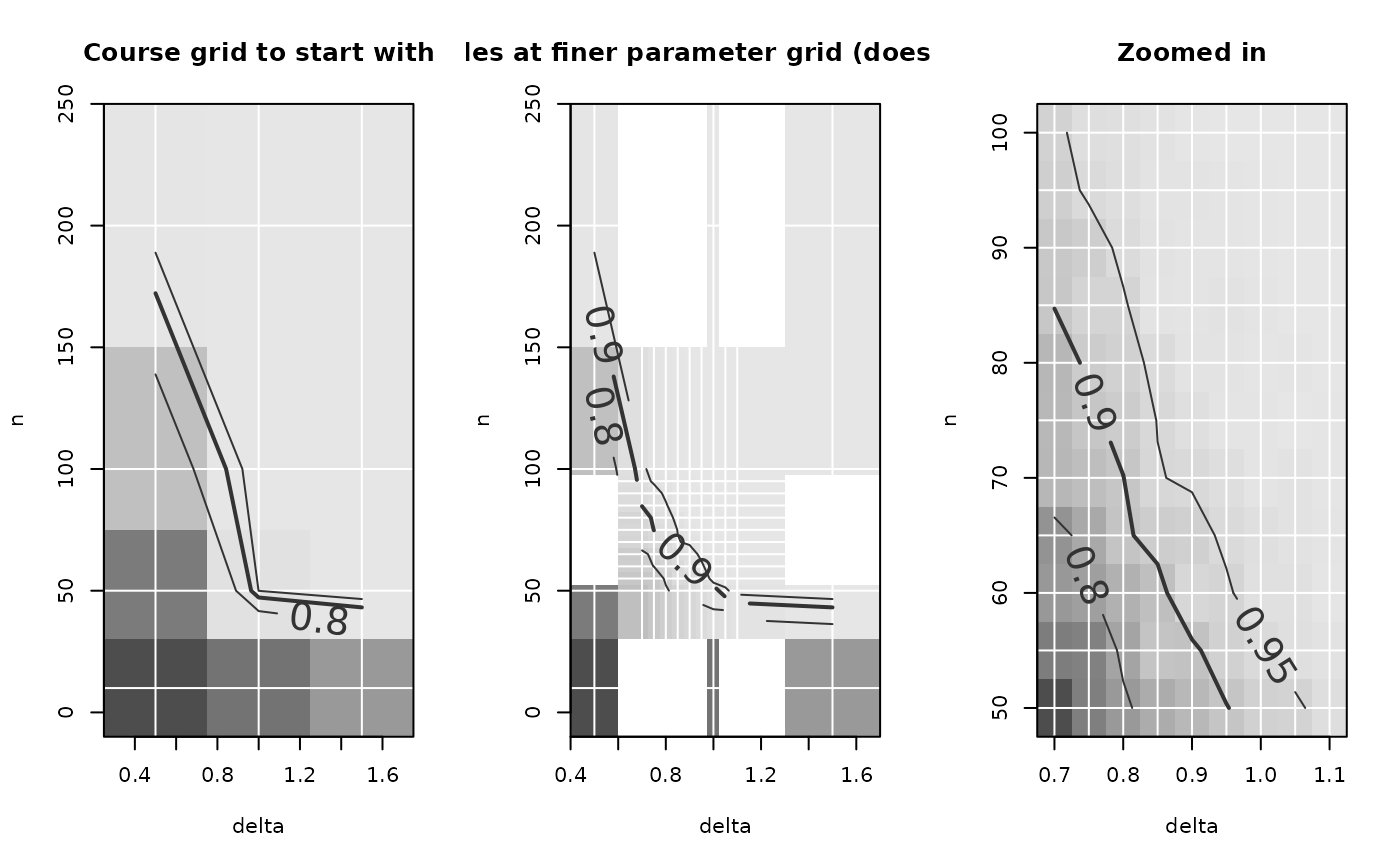
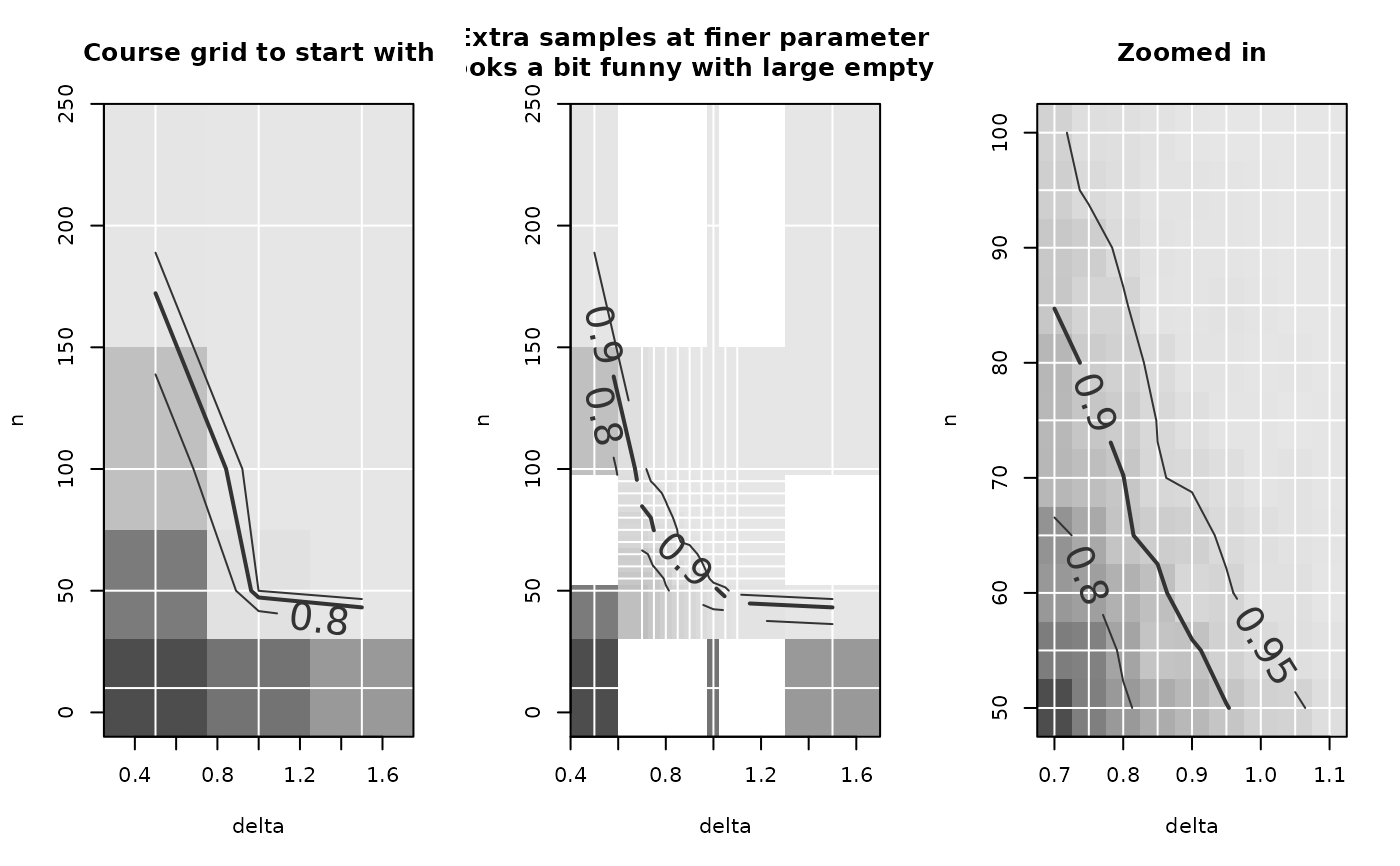
Deploying to gh-pages from @ gillesdutilh/powergrid@33b3f2732a4522dcdd5b598cbbedf673c98b71b1 🚀

Changed region(s): [[0.3379, 0.0312, 0.6757, 0.0935]]

diff --git a/reference/Refine.html b/reference/Refine.html
@@ -76,17 +76,23 @@ PowerGrid or by another call of Refine), adding further values in
     </div>
     <div class="section level2">
     <h2 id="details">Details<a class="anchor" aria-label="anchor" href="#details"></a></h2>
-    <p>If <code>pars == NULL</code>, update extends <code>old</code> by adding
-iterations <code>n_iter_add</code> to the existing power_array. If <code>pars</code>
-is given, the function that was evaluated in <code>old</code> (attribute
-<code>sim_function</code>) is evaluated at the crossings of <code>pars</code>. If
-argument <code>pars</code> is different from <code>attr(old, which = 'pars')</code>,
-this means that the function is evaluated additional crossings of
-parameters.</p>
-<p>Note that certain combinations of <code>pars</code> and <code>n_iter_add</code> result
-in arrays where some crossings of parameters include more iterations than
-others. This is a feature, not a bug. May result in less aesthetic
-plotting, however.</p>
+    <p>This function allows extending the number of iterations, as well as
+changing the parameter grid across which the function of interest is
+evaluated. Being able to do both at the same time is handy in cases where
+calculation takes significant time: You may first only evaluate a broad
+grid of parameters with a low number of iterations using PowerGrid. Then,
+using <code>Refine</code>, you can zoom in on a certain section of the parameter grid
+(and increase resolution in the focal range), and evaluate with a higher
+number of iterations.</p>
+<p>If <code>pars == NULL</code>, <code>Refine</code> extends <code>old</code> by adding iterations
+<code>n_iter_add</code> to the existing power_array (applying the original
+function <code>attr(old, which = 'sim_function'</code>).</p>
+<p>If <code>pars</code> is given and different from the original <code>pars</code>
+(<code>attr(old, which = 'pars')</code>), the function is evaluated at
+additional crossings of parameters. This means that the resulting array
+may have empty cells, or cells with different numbers of iterations. This
+is a feature, not a bug. It may result in less aesthetic plotting,
+however.</p>
 <p>For details about handling the random seed, see <code><a href="PowerGrid.html">PowerGrid</a></code>.</p>
     </div>
     <div class="section level2">
@@ -189,18 +195,19 @@ plotting, however.</p>
 <span class="r-out co"><span class="r-pr">#&gt;</span>       n 200</span>
 <span class="r-out co"><span class="r-pr">#&gt;</span>   delta 0.5, 0.7, 0.75, 0.8, 0.85, 0.9, 0.95, 1, 1.05,</span>
 <span class="r-out co"><span class="r-pr">#&gt;</span>   delta 1.1, 1.5</span>
-<span class="r-in"><span><span class="fu"><a href="PowerPlot.html">PowerPlot</a></span><span class="op">(</span><span class="va">power_array_up</span><span class="op">)</span> <span class="co"># that looks funny! It's because the default summary</span></span></span>
+<span class="r-in"><span><span class="fu"><a href="PowerPlot.html">PowerPlot</a></span><span class="op">(</span><span class="va">power_array_up</span><span class="op">)</span></span></span>
 <span class="r-wrn co"><span class="r-pr">#&gt;</span> <span class="warning">Warning: </span>The power array you supplied to contains individual iterations. To be used further these were automatically summarized across iterations using the provided summary function</span>
 <span class="r-plt img"><img src="Refine-2.png" alt="" width="700" height="433"></span>
-<span class="r-in"><span>                          <span class="co"># mean does not deal with the empty value in the</span></span></span>
-<span class="r-in"><span>                          <span class="co"># grid. Solution is in illustration below.</span></span></span>
+<span class="r-in"><span></span></span>
+<span class="r-in"><span><span class="co">## That looks funny! It's because the default summary mean does not deal</span></span></span>
+<span class="r-in"><span><span class="co">## with the empty value in the grid. Solution is in illustration below.</span></span></span>
 <span class="r-in"><span></span></span>
 <span class="r-in"><span><span class="co">## A visual illustration of this zooming in, in three figures</span></span></span>
 <span class="r-in"><span><span class="fu"><a href="https://rdrr.io/r/graphics/layout.html" class="external-link">layout</a></span><span class="op">(</span><span class="fu"><a href="https://rdrr.io/r/base/t.html" class="external-link">t</a></span><span class="op">(</span><span class="fl">1</span><span class="op">:</span><span class="fl">3</span><span class="op">)</span><span class="op">)</span></span></span>
 <span class="r-in"><span><span class="fu"><a href="PowerPlot.html">PowerPlot</a></span><span class="op">(</span><span class="va">power_array</span>, title <span class="op">=</span> <span class="st">'Course grid to start with'</span><span class="op">)</span></span></span>
 <span class="r-wrn co"><span class="r-pr">#&gt;</span> <span class="warning">Warning: </span>The power array you supplied to contains individual iterations. To be used further these were automatically summarized across iterations using the provided summary function</span>
 <span class="r-in"><span><span class="fu"><a href="PowerPlot.html">PowerPlot</a></span><span class="op">(</span><span class="va">power_array_up</span>, summary_function <span class="op">=</span> <span class="kw">function</span><span class="op">(</span><span class="va">x</span><span class="op">)</span><span class="fu"><a href="https://rdrr.io/r/base/mean.html" class="external-link">mean</a></span><span class="op">(</span><span class="va">x</span>, na.rm <span class="op">=</span> <span class="cn">TRUE</span><span class="op">)</span>,</span></span>
-<span class="r-in"><span>          title <span class="op">=</span> <span class="st">'Extra samples at finer parameter grid (does not look good)'</span><span class="op">)</span></span></span>
+<span class="r-in"><span>          title <span class="op">=</span> <span class="st">'Extra samples at finer parameter grid\n(looks a bit funny with large empty cells)'</span><span class="op">)</span></span></span>
 <span class="r-wrn co"><span class="r-pr">#&gt;</span> <span class="warning">Warning: </span>The power array you supplied to contains individual iterations. To be used further these were automatically summarized across iterations using the provided summary function</span>
 <span class="r-in"><span><span class="fu"><a href="PowerPlot.html">PowerPlot</a></span><span class="op">(</span><span class="va">power_array_up</span>,</span></span>
 <span class="r-in"><span>          slicer <span class="op">=</span> <span class="fu"><a href="https://rdrr.io/r/base/list.html" class="external-link">list</a></span><span class="op">(</span>n <span class="op">=</span> <span class="fu"><a href="https://rdrr.io/r/base/seq.html" class="external-link">seq</a></span><span class="op">(</span><span class="fl">50</span>, <span class="fl">100</span>, <span class="fl">5</span><span class="op">)</span>,</span></span>

diff --git a/reference/PowerPlot.html b/reference/PowerPlot.html
@@ -67,6 +67,7 @@ parameters deemed most likely.</p>
 <span>  shades_of_grey <span class="op">=</span> <span class="cn">TRUE</span>,</span>
 <span>  example_text <span class="op">=</span> <span class="cn">TRUE</span>,</span>
 <span>  title <span class="op">=</span> <span class="cn">NULL</span>,</span>
+<span>  axes <span class="op">=</span> <span class="cn">TRUE</span>,</span>
 <span>  labcex <span class="op">=</span> <span class="fl">1.2</span>,</span>
 <span>  par_labels <span class="op">=</span> <span class="cn">NULL</span>,</span>
 <span>  smooth <span class="op">=</span> <span class="cn">NA</span>,</span>
@@ -128,7 +129,7 @@ uncertainty).</p></dd>
 needed to achieve <code>target_value</code>. Either <code>step</code>: walking in
 steps along <code>par_to_search</code> or <code>lm</code>: Interpolating assuming a
 linear relation between <code>par_to_search</code> and <code>(qnorm(x) + qnorm(1
-  - 0.05)) ^ 2</code>. The setting <code>lm</code> is inspired on the implementation in
+- 0.05)) ^ 2</code>. The setting <code>lm</code> is inspired on the implementation in
 the <code>sse</code> package by Thomas Fabbro.</p></dd>
 
 
@@ -164,6 +165,10 @@ value be printed alongside the arrow(s)</p></dd>
 title.</p></dd>
 
 
+<dt id="arg-axes">axes<a class="anchor" aria-label="anchor" href="#arg-axes"></a></dt>
+<dd><p>Logical defining whether or not axes are drawn.</p></dd>
+
+
 <dt id="arg-labcex">labcex<a class="anchor" aria-label="anchor" href="#arg-labcex"></a></dt>
 <dd><p>Numeric value passed to `contour, specifying the size of the
 contour labels.</p></dd>
@@ -185,8 +190,8 @@ contour plot, thereby <em>biasing</em> the contour lines.</p></dd>
 
 <dt id="arg--">...<a class="anchor" aria-label="anchor" href="#arg--"></a></dt>
 <dd><p>Further arguments to <code><a href="https://rdrr.io/r/graphics/par.html" class="external-link">par</a></code>, <code><a href="https://rdrr.io/r/graphics/axis.html" class="external-link">axis</a></code> and
-<code><a href="https://rdrr.io/r/graphics/image.html" class="external-link">image</a></code>. A few exceptions (e.g. <code>y</code>) are ignored with a warning.
-<code>...</code> is also passed directly to <code><a href="AddExample.html">AddExample</a></code></p></dd>
+<code><a href="https://rdrr.io/r/graphics/image.html" class="external-link">image</a></code>. A few exceptions (e.g. <code>y</code>) are ignored with a
+warning.  <code>...</code> is also passed directly to <code><a href="AddExample.html">AddExample</a></code></p></dd>
 
 </dl></div>
     <div class="section level2">
@@ -237,12 +242,11 @@ to <code>FALSE</code>. See Example for more details about <code>find_lowest</cod
 <h4 id="graphical-parameters">Graphical parameters<a class="anchor" aria-label="anchor" href="#graphical-parameters"></a></h4>
 
 
-<p>The plot takes the <code><a href="https://rdrr.io/r/graphics/par.html" class="external-link">graphical parameters</a></code> from <code>par</code>. If graphical
-parameters are given as arguments to the function they will be passed to
-the calls generating axes, titles and plotting. Grid lines are not modified
-by graphical parameters to PowerPlot. <code>lty</code> is only passed to the plotted
-contours (e.g. to prevent dashed axes). For further customisation of the
-axes <code>xaxt</code> and <code>yaxt</code> can be set to "n", and axes can be added afterwards.</p>
+<p>Graphical parameters that are allowed as input to the functions
+<code><a href="https://rdrr.io/r/graphics/plot.default.html" class="external-link">graphics::plot</a></code>, <code><a href="https://rdrr.io/r/graphics/lines.html" class="external-link">graphics::lines</a></code>, <code><a href="https://rdrr.io/r/graphics/image.html" class="external-link">graphics::image</a></code> and
+<code><a href="https://rdrr.io/r/graphics/axis.html" class="external-link">graphics::axis</a></code>, including all parametes available in par() are passed on
+to these functions internally. Not passed through are "x", "y", "z",
+"type", "at", and parameters that are explict arguments to <code>PowerPlot</code>.</p>
 </div>
 
 

diff --git a/reference/GridPlot.html b/reference/GridPlot.html
@@ -61,6 +61,7 @@ parameters.</p>
 <span>  col <span class="op">=</span> <span class="cn">NULL</span>,</span>
 <span>  example_text <span class="op">=</span> <span class="cn">TRUE</span>,</span>
 <span>  title <span class="op">=</span> <span class="cn">NULL</span>,</span>
+<span>  axes <span class="op">=</span> <span class="cn">TRUE</span>,</span>
 <span>  par_labels <span class="op">=</span> <span class="cn">NULL</span>,</span>
 <span>  add_legend <span class="op">=</span> <span class="cn">TRUE</span>,</span>
 <span>  xlim <span class="op">=</span> <span class="cn">NULL</span>,</span>
@@ -150,7 +151,11 @@ value, and the line parameter value be printed alongside the arrow(s).</p></dd>
 
 <dt id="arg-title">title<a class="anchor" aria-label="anchor" href="#arg-title"></a></dt>
 <dd><p>Character string, if not <code>NULL</code>, replaces default figure
-title. Replaces <code>main</code>if sepcifiec by <code>...</code>.</p></dd>
+title. Replaces <code>main</code>if specifiec by <code>...</code> .</p></dd>
+
+
+<dt id="arg-axes">axes<a class="anchor" aria-label="anchor" href="#arg-axes"></a></dt>
+<dd><p>Logical defining whether or not axes are drawn.</p></dd>
 
 
 <dt id="arg-par-labels">par_labels<a class="anchor" aria-label="anchor" href="#arg-par-labels"></a></dt>
@@ -199,7 +204,17 @@ the margin. This is often correct behavior, when the <code>target_value</code>
 level is not reached anywhere in that corner of the parameter range. In case
 n is on the y-axis, this may easily be solved by adding larger sample sizes
 to the grid (consider <code>Update</code>), and then adjusting the y-limit to only
-include the values of interest.</p>
+include the values of interest.</p><div class="section">
+<h3 id="graphical-parameters">Graphical parameters<a class="anchor" aria-label="anchor" href="#graphical-parameters"></a></h3>
+
+
+<p>Graphical parameters that are allowed as input to the functions
+<code><a href="https://rdrr.io/r/graphics/plot.default.html" class="external-link">graphics::plot</a></code>, <code><a href="https://rdrr.io/r/graphics/lines.html" class="external-link">graphics::lines</a></code>, <code><a href="https://rdrr.io/r/graphics/image.html" class="external-link">graphics::image</a></code> and <code><a href="https://rdrr.io/r/graphics/axis.html" class="external-link">graphics::axis</a></code>,
+including all parametes available in par() are passed on to these functions
+internally. Not passed through are "x", "y", "z", "type", "at", and
+parameters that are explict arguments to <code>GridPlot</code>.</p>
+</div>
+
     </div>
     <div class="section level2">
     <h2 id="see-also">See also<a class="anchor" aria-label="anchor" href="#see-also"></a></h2>

diff --git a/reference/PowerGrid.html b/reference/PowerGrid.html
@@ -207,11 +207,12 @@ attr(&lt;your_power_array&gt;, which = 'random.seed')[[2]]</code>, etc.</p>
 <h3 id="progress-bar">Progress bar<a class="anchor" aria-label="anchor" href="#progress-bar"></a></h3>
 
 
-<p>By default PowerGrid does not report progress. To return the optional progress bar (<code>progress_bar = TRUE</code>), the
-<code>progressr</code> package must be installed. As required by the design of that
-package, the progress handler must be explicitly activated before running
-your simulation. For that, run <code>progressr::handlers(global = TRUE)</code> in the
-current R console (not sent to the console from quarto for example).</p>
+<p>By default PowerGrid does not report progress. To return the optional
+progress bar (<code>progress_bar = TRUE</code>), the <code>progressr</code> package must be
+installed. As required by the design of that package, the progress handler
+must be explicitly activated before running your simulation. For that, run
+<code>progressr::handlers(global = TRUE)</code> in the current R console (not sent to
+the console from quarto for example).</p>
 </div>
 
     </div>

diff --git a/reference/FindTarget.html b/reference/FindTarget.html
@@ -139,7 +139,7 @@ a maximum (e.g., the size of a confidence interval)</p></dd>
 <code>target_value</code> found. Either <code>'step'</code>: walking in steps along
 <code>par_to_search</code> or <code>'lm'</code>: Interpolating assuming a linear
 relation between <code>par_to_search</code> and <code>(qnorm(x) + qnorm(1 -
-  0.05)) ^ 2</code>. Setting 'lm' is inspired on the implementation in the sse
+0.05)) ^ 2</code>. Setting 'lm' is inspired on the implementation in the sse
 package by Thomas Fabbro.</p></dd>
 
 </dl></div>

diff --git a/reference/Refine.md b/reference/Refine.md
@@ -35,17 +35,24 @@ object of class `power_array`, containing old, extended by `pars` and/or
 
 ## Details
 
-If `pars == NULL`, update extends `old` by adding iterations
-`n_iter_add` to the existing power_array. If `pars` is given, the
-function that was evaluated in `old` (attribute `sim_function`) is
-evaluated at the crossings of `pars`. If argument `pars` is different
-from `attr(old, which = 'pars')`, this means that the function is
-evaluated additional crossings of parameters.
+This function allows extending the number of iterations, as well as
+changing the parameter grid across which the function of interest is
+evaluated. Being able to do both at the same time is handy in cases
+where calculation takes significant time: You may first only evaluate a
+broad grid of parameters with a low number of iterations using
+PowerGrid. Then, using `Refine`, you can zoom in on a certain section of
+the parameter grid (and increase resolution in the focal range), and
+evaluate with a higher number of iterations.
 
-Note that certain combinations of `pars` and `n_iter_add` result in
-arrays where some crossings of parameters include more iterations than
-others. This is a feature, not a bug. May result in less aesthetic
-plotting, however.
+If `pars == NULL`, `Refine` extends `old` by adding iterations
+`n_iter_add` to the existing power_array (applying the original function
+`attr(old, which = 'sim_function'`).
+
+If `pars` is given and different from the original `pars`
+(`attr(old, which = 'pars')`), the function is evaluated at additional
+crossings of parameters. This means that the resulting array may have
+empty cells, or cells with different numbers of iterations. This is a
+feature, not a bug. It may result in less aesthetic plotting, however.
 
 For details about handling the random seed, see
 [`PowerGrid`](https://swissclinicaltrialorganisation.github.io/powergrid/reference/PowerGrid.md).
@@ -150,18 +157,19 @@ summary(power_array_up)
 #>       n 200
 #>   delta 0.5, 0.7, 0.75, 0.8, 0.85, 0.9, 0.95, 1, 1.05,
 #>   delta 1.1, 1.5
-PowerPlot(power_array_up) # that looks funny! It's because the default summary
+PowerPlot(power_array_up)
 #> Warning: The power array you supplied to contains individual iterations. To be used further these were automatically summarized across iterations using the provided summary function
 
-                          # mean does not deal with the empty value in the
-                          # grid. Solution is in illustration below.
+
+## That looks funny! It's because the default summary mean does not deal
+## with the empty value in the grid. Solution is in illustration below.
 
 ## A visual illustration of this zooming in, in three figures
 layout(t(1:3))
 PowerPlot(power_array, title = 'Course grid to start with')
 #> Warning: The power array you supplied to contains individual iterations. To be used further these were automatically summarized across iterations using the provided summary function
 PowerPlot(power_array_up, summary_function = function(x)mean(x, na.rm = TRUE),
-          title = 'Extra samples at finer parameter grid (does not look good)')
+          title = 'Extra samples at finer parameter grid\n(looks a bit funny with large empty cells)')
 #> Warning: The power array you supplied to contains individual iterations. To be used further these were automatically summarized across iterations using the provided summary function
 PowerPlot(power_array_up,
           slicer = list(n = seq(50, 100, 5),

diff --git a/reference/PowerPlot.md b/reference/PowerPlot.md
@@ -24,6 +24,7 @@ PowerPlot(
   shades_of_grey = TRUE,
   example_text = TRUE,
   title = NULL,
+  axes = TRUE,
   labcex = 1.2,
   par_labels = NULL,
   smooth = NA,
@@ -116,6 +117,10 @@ PowerPlot(
 
   Character string, if not `NULL`, replaces default figure title.
 
+- axes:
+
+  Logical defining whether or not axes are drawn.
+
 - labcex:
 
   Numeric value passed to \`contour, specifying the size of the contour
@@ -184,14 +189,14 @@ to `FALSE`. See Example for more details about `find_lowest` and
 
 #### Graphical parameters
 
-The plot takes the
-[`graphical parameters`](https://rdrr.io/r/graphics/par.html) from
-`par`. If graphical parameters are given as arguments to the function
-they will be passed to the calls generating axes, titles and plotting.
-Grid lines are not modified by graphical parameters to PowerPlot. `lty`
-is only passed to the plotted contours (e.g. to prevent dashed axes).
-For further customisation of the axes `xaxt` and `yaxt` can be set to
-"n", and axes can be added afterwards.
+Graphical parameters that are allowed as input to the functions
+[`graphics::plot`](https://rdrr.io/r/graphics/plot.default.html),
+[`graphics::lines`](https://rdrr.io/r/graphics/lines.html),
+[`graphics::image`](https://rdrr.io/r/graphics/image.html) and
+[`graphics::axis`](https://rdrr.io/r/graphics/axis.html), including all
+parametes available in par() are passed on to these functions
+internally. Not passed through are "x", "y", "z", "type", "at", and
+parameters that are explict arguments to `PowerPlot`.
 
 ## See also
 

diff --git a/reference/GridPlot.md b/reference/GridPlot.md
@@ -21,6 +21,7 @@ GridPlot(
   col = NULL,
   example_text = TRUE,
   title = NULL,
+  axes = TRUE,
   par_labels = NULL,
   add_legend = TRUE,
   xlim = NULL,
@@ -108,7 +109,11 @@ GridPlot(
 - title:
 
   Character string, if not `NULL`, replaces default figure title.
-  Replaces `main`if sepcifiec by `...`.
+  Replaces `main`if specifiec by `...` .
+
+- axes:
+
+  Logical defining whether or not axes are drawn.
 
 - par_labels:
 
@@ -162,6 +167,17 @@ reaching the margin. This is often correct behavior, when the
 parameter range. In case n is on the y-axis, this may easily be solved
 by adding larger sample sizes to the grid (consider `Update`), and then
 adjusting the y-limit to only include the values of interest.
+
+### Graphical parameters
+
+Graphical parameters that are allowed as input to the functions
+[`graphics::plot`](https://rdrr.io/r/graphics/plot.default.html),
+[`graphics::lines`](https://rdrr.io/r/graphics/lines.html),
+[`graphics::image`](https://rdrr.io/r/graphics/image.html) and
+[`graphics::axis`](https://rdrr.io/r/graphics/axis.html), including all
+parametes available in par() are passed on to these functions
+internally. Not passed through are "x", "y", "z", "type", "at", and
+parameters that are explict arguments to `GridPlot`.
 
 ## See also
 